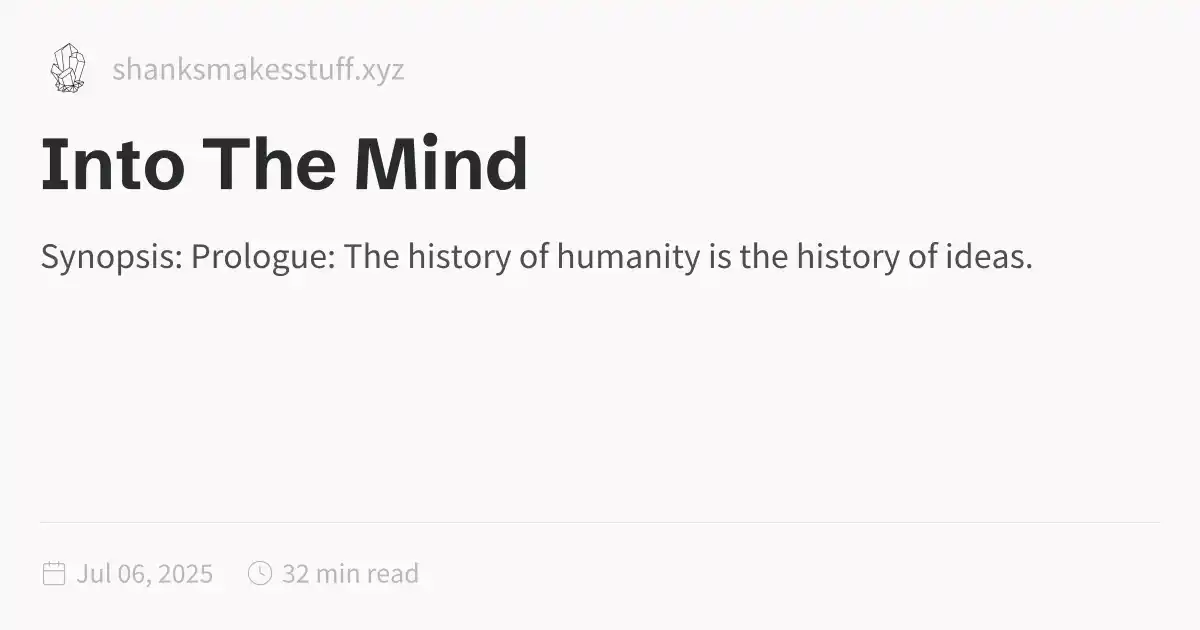
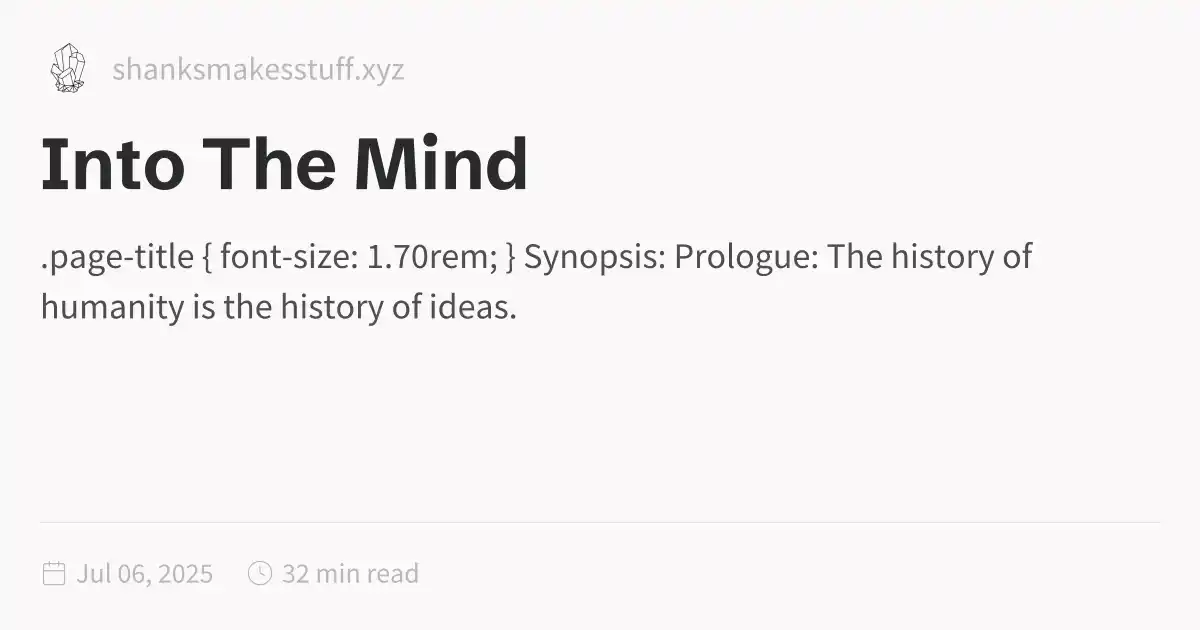
2025-07-06_1411

Changed region(s): [[0.0308, 0.3619, 0.8633, 0.5127]]

diff --git a/Into-The-Mind.html b/Into-The-Mind.html
@@ -1,5 +1,5 @@
 <!DOCTYPE html>
-<html lang="en"><head><title>Into The Mind</title><meta charset="utf-8"/><link rel="preconnect" href="https://fonts.googleapis.com"/><link rel="preconnect" href="https://fonts.gstatic.com"/><link rel="stylesheet" href="https://fonts.googleapis.com/css2?family=Schibsted Grotesk:wght@400;700&amp;family=Source Sans Pro:ital,wght@0,400;0,600;1,400;1,600&amp;family=IBM Plex Mono:wght@400;600&amp;display=swap"/><link rel="preconnect" href="https://cdnjs.cloudflare.com" crossorigin="anonymous"/><meta name="viewport" content="width=device-width, initial-scale=1.0"/><meta name="og:site_name" content="ShanksMakesStuff"/><meta property="og:title" content="Into The Mind"/><meta property="og:type" content="website"/><meta name="twitter:card" content="summary_large_image"/><meta name="twitter:title" content="Into The Mind"/><meta name="twitter:description" content="Synopsis: Prologue: The history of humanity is the history of ideas."/><meta property="og:description" content="Synopsis: Prologue: The history of humanity is the history of ideas."/><meta property="og:image:alt" content="Synopsis: Prologue: The history of humanity is the history of ideas."/><meta property="twitter:domain" content="shanksmakesstuff.xyz"/><meta property="og:url" content="https://shanksmakesstuff.xyz/Into-The-Mind"/><meta property="twitter:url" content="https://shanksmakesstuff.xyz/Into-The-Mind"/><link rel="icon" href="./static/icon.png"/><meta name="description" content="Synopsis: Prologue: The history of humanity is the history of ideas."/><meta name="generator" content="Quartz"/><link href="./index.css" rel="stylesheet" type="text/css" spa-preserve/><style>.expand-button {
+<html lang="en"><head><title>Into The Mind</title><meta charset="utf-8"/><link rel="preconnect" href="https://fonts.googleapis.com"/><link rel="preconnect" href="https://fonts.gstatic.com"/><link rel="stylesheet" href="https://fonts.googleapis.com/css2?family=Schibsted Grotesk:wght@400;700&amp;family=Source Sans Pro:ital,wght@0,400;0,600;1,400;1,600&amp;family=IBM Plex Mono:wght@400;600&amp;display=swap"/><link rel="preconnect" href="https://cdnjs.cloudflare.com" crossorigin="anonymous"/><meta name="viewport" content="width=device-width, initial-scale=1.0"/><meta name="og:site_name" content="ShanksMakesStuff"/><meta property="og:title" content="Into The Mind"/><meta property="og:type" content="website"/><meta name="twitter:card" content="summary_large_image"/><meta name="twitter:title" content="Into The Mind"/><meta name="twitter:description" content=".page-title { font-size: 1.70rem; } Synopsis: Prologue: The history of humanity is the history of ideas."/><meta property="og:description" content=".page-title { font-size: 1.70rem; } Synopsis: Prologue: The history of humanity is the history of ideas."/><meta property="og:image:alt" content=".page-title { font-size: 1.70rem; } Synopsis: Prologue: The history of humanity is the history of ideas."/><meta property="twitter:domain" content="shanksmakesstuff.xyz"/><meta property="og:url" content="https://shanksmakesstuff.xyz/Into-The-Mind"/><meta property="twitter:url" content="https://shanksmakesstuff.xyz/Into-The-Mind"/><link rel="icon" href="./static/icon.png"/><meta name="description" content=".page-title { font-size: 1.70rem; } Synopsis: Prologue: The history of humanity is the history of ideas."/><meta name="generator" content="Quartz"/><link href="./index.css" rel="stylesheet" type="text/css" spa-preserve/><style>.expand-button {
   position: absolute;
   display: flex;
   float: right;
@@ -116,7 +116,14 @@ pre:hover > .expand-button {
   padding: 0 12px;
   font-size: 14px;
 }
[2 lines of base64/hex data omitted]
+	<style> 
+		.page-title { 
+			font-size: 1.70rem; 
+		}
+	</style> 
+ 
+<h2 id="synopsis">Synopsis:<a role="anchor" aria-hidden="true" tabindex="-1" data-no-popover="true" href="#synopsis" class="internal"><svg width="18" height="18" viewBox="0 0 24 24" fill="none" stroke="currentColor" stroke-width="2" stroke-linecap="round" stroke-linejoin="round"><path d="M10 13a5 5 0 0 0 7.54.54l3-3a5 5 0 0 0-7.07-7.07l-1.72 1.71"></path><path d="M14 11a5 5 0 0 0-7.54-.54l-3 3a5 5 0 0 0 7.07 7.07l1.71-1.71"></path></svg></a></h2>
 <h2 id="prologue">Prologue: <a role="anchor" aria-hidden="true" tabindex="-1" data-no-popover="true" href="#prologue" class="internal"><svg width="18" height="18" viewBox="0 0 24 24" fill="none" stroke="currentColor" stroke-width="2" stroke-linecap="round" stroke-linejoin="round"><path d="M10 13a5 5 0 0 0 7.54.54l3-3a5 5 0 0 0-7.07-7.07l-1.72 1.71"></path><path d="M14 11a5 5 0 0 0-7.54-.54l-3 3a5 5 0 0 0 7.07 7.07l1.71-1.71"></path></svg></a></h2>
 <p>The history of humanity is the history of ideas. To understand the evolution of human society, one is thus compelled to learn about the ideas of the different stages of human society, why some ideas became obsolete while others grew, and the what ‘ideas’ are in the first place. </p>
 <p>Before I begin this chapter, let me assert one fundamental truth: this book and its contents were written in hindsight. This is meant to be a descriptive macro-view of history, covering the most salient points I have picked from my own readings. As such, it is by no means unbiased - in fact it is highly prone to survivor biases and my own willingness to engage with certain ideas. This is not a book trying draw conclusions, but is simply my attempt at both description and rationalization. </p>
